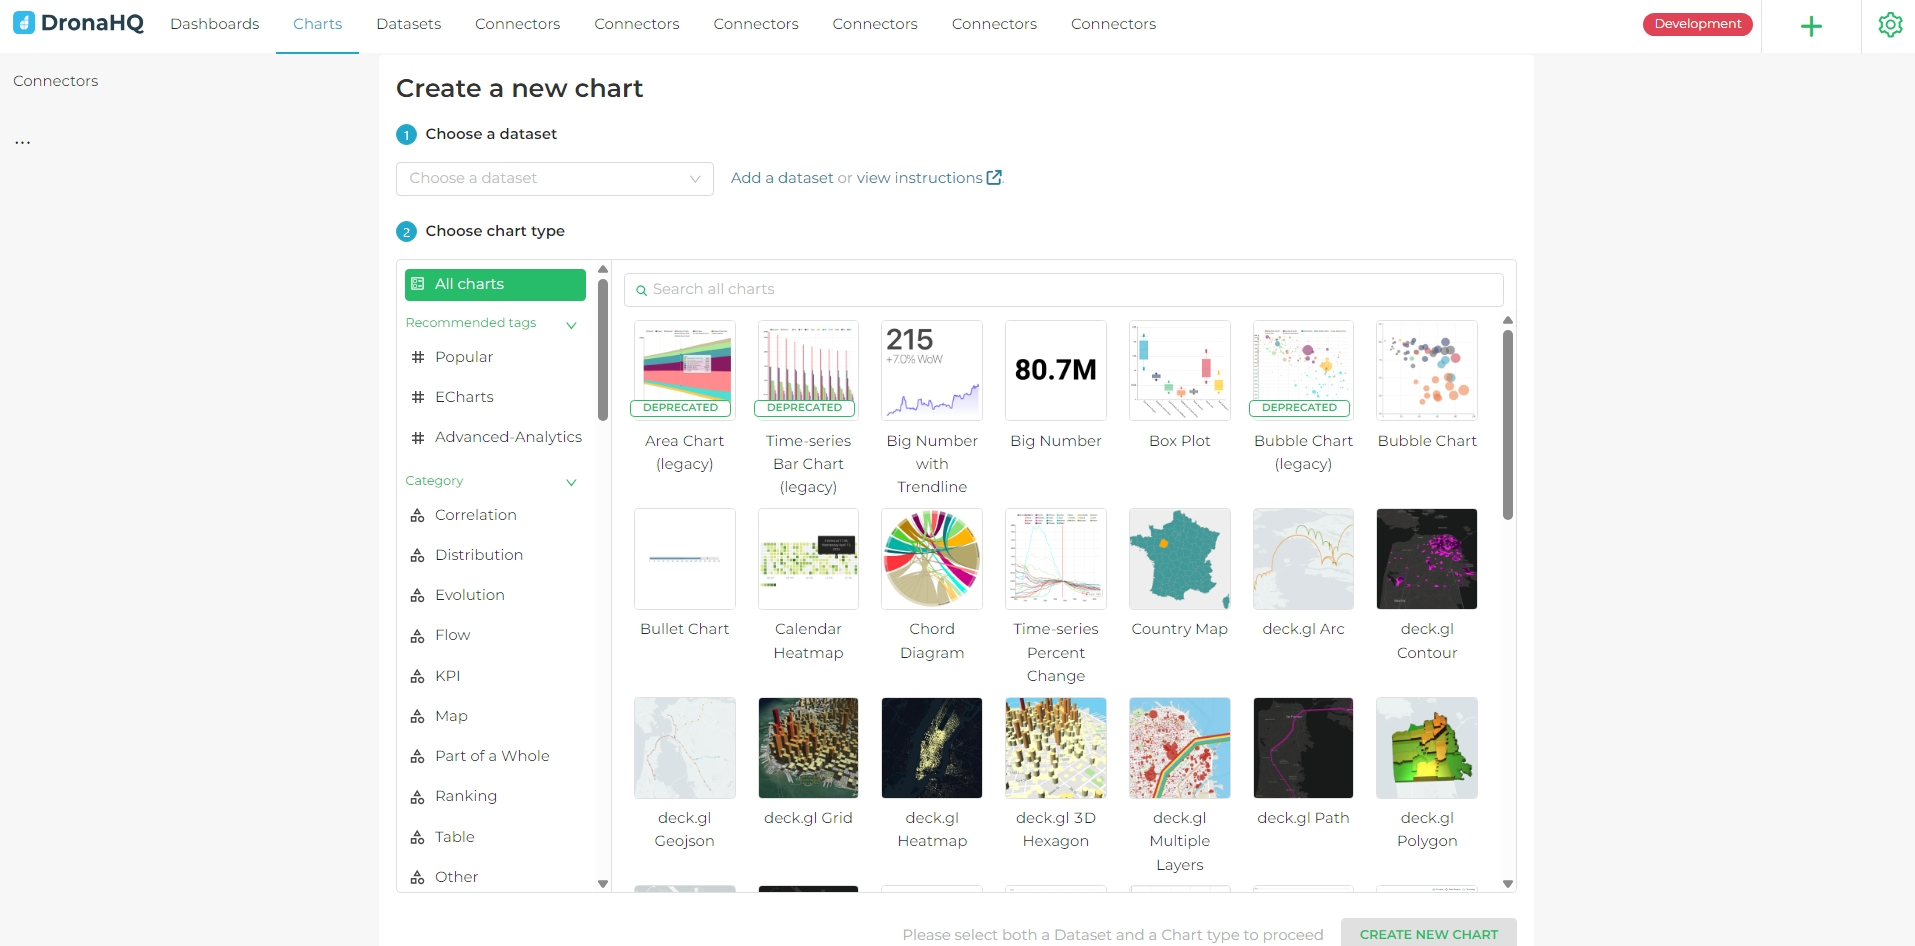
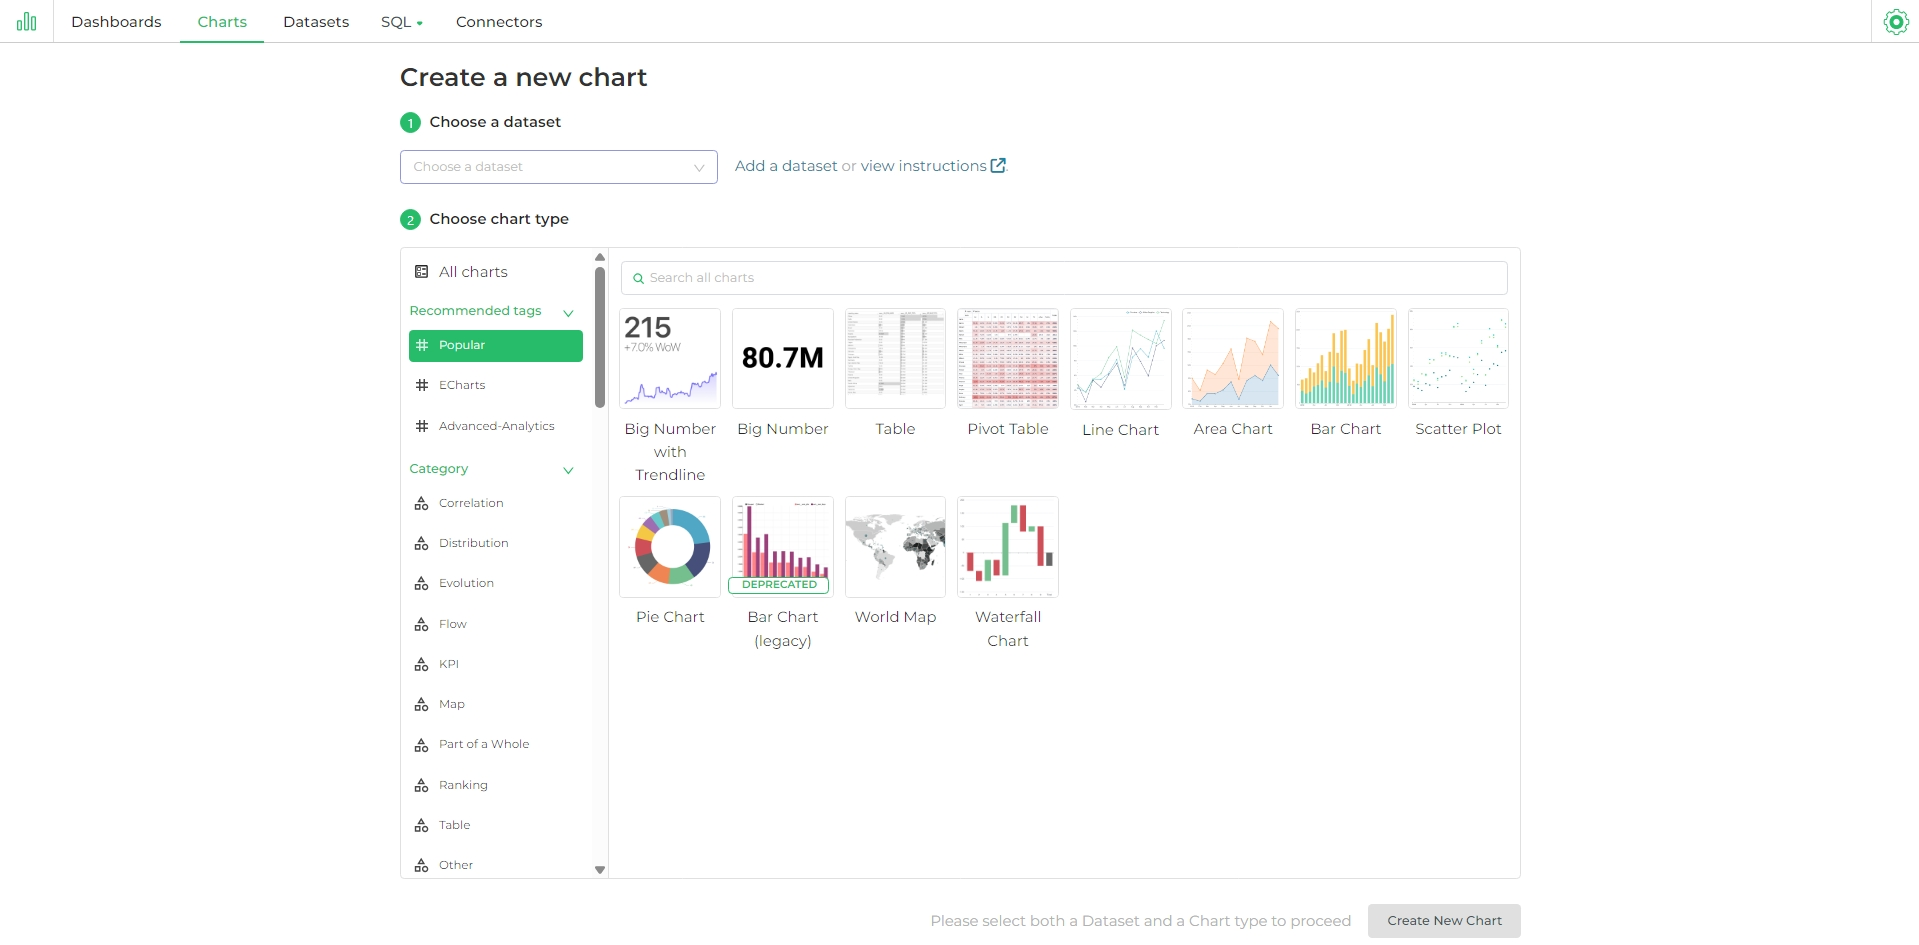
dataset and chart
addition updates too included

diff --git a/docs/dashboard-dronahq/using-dashboard/building-dashboard.md b/docs/dashboard-dronahq/using-dashboard/building-dashboard.md
@@ -15,23 +15,48 @@ Creating dashboards in DronaHQ allows you to visualize and manage data effective
 
 This tutorial is intended for users who want to create charts and dashboards in DronaHQ. We’ll cover how to create a new dataset, configure a table for analysis, explore the data, and add visualizations to a dashboard. Start by navigating to DronaHQ Dashboards from your DronaHQ account.
 
-### Connecting to Datasets
+### Connecting to Database
 
-On the Dashboard Home screen, click the `+` button at the top, then select `Data > Create Dataset`. This will allow you to connect to databases and create datasets. Choose your database from the dropdown menu.
+First, we need to add a connector. It has a + Database button, which allows you to add a connector for your database where the data is stored and will be further used to create datasets and charts, eventually leading to the creation of a dashboard. This includes minimal steps: select the database, provide configuration details, and connect it. You can configure a number of advanced options in this window. There are other options to try, such as CSV upload, columnar file upload, and Excel file upload.
 
-Datasets can be created from database tables or SQL queries. To proceed, select a database table or create a dataset from an SQL query by opening SQL Lab. From there, you can save the query as a dataset. Once the schema is loaded, select the appropriate table. After the table columns are fetched, the `Create Dataset and Create Chart` button will be enabled. Click this button to create your dataset, and a new screen with chart creation options will appear.
+<figure>
+  <Thumbnail src="/img/dhq-dashboard/using-dashboard/creating-dashboard/database.jpeg" alt="Dashboard Connector Configuration " />
+  <figcaption align="center"><i>Dashboard Connector Configuration </i></figcaption>
+</figure>
+
+### Registering Dataset
+
+Now that you’ve configured a data source, you can select specific tables that you want to expose in DronaHQ Dashboard for querying. Navigate to Datasets and select the `+ Dataset` button in the top right corner. 
+
+Datasets can be created from database tables or SQL queries. Once the schema is loaded, select the appropriate table. After the table columns are fetched, the Create Dataset and Create Chart button will be enabled. Click this button to create your dataset, and a new screen with chart creation options will appear.
+
+<figure>
+  <Thumbnail src="/img/dhq-dashboard/using-dashboard/creating-dashboard/dataset.jpeg" alt="Creating Dataset " />
+  <figcaption align="center"><i>Creating Dataset </i></figcaption>
+</figure>
 
 ### Creating a New Chart
 
-After creating the dataset, you will be redirected to the Chart Creation section, where your newly created dataset will already be selected. Alternatively, you can manually click `+` and select Chart, then choose the dataset you created.
+After creating the dataset, you will be redirected to the Chart Creation section, where your newly created dataset will already be selected. Alternatively, you can manually click `+ Chart`, then choose the dataset you created.
 
 DronaHQ Dashboard offers a wide variety of charts and tags for users to choose from. Select the chart type you want to use for your dataset, then click `Create New Chart`.
 
-### Data Visualization Configuration
+
+#### Data Visualization Configuration
 
 In the next step, you will configure the data available to you. Select different columns from the metrics, apply filters, and set the order. Customize the result data format, color, attribute names, and more. Once you have configured the settings, click `Create Chart`.
 
 A preview of the chart with the provided data configuration will be generated. You can make further customizations; after each edit, click `Update Chart`. 
+
+You now have a robust workflow for exploring data and refining charts. The Dataset view on the left displays a list of columns and metrics specific to the selected dataset. The Data preview below the chart area provides useful data context. Using the Data and Customize tabs, you can change the visualization type, select the time column, choose the metric to group by, and adjust the chart's aesthetics. Make sure to click the Run button to see visual feedback as you customize your chart.
+
+In the screenshot below, we create a country Map Chart to visualize birth in France by region, simply by selecting options from the drop-down menus.
+
+<figure>
+  <Thumbnail src="/img/dhq-dashboard/using-dashboard/creating-dashboard/chart.jpeg" alt="Chart Building" />
+  <figcaption align="center"><i>Chart Building</i></figcaption>
+</figure>
+
 
 When you are satisfied with the chart, click `Save`. Provide a name for the chart and click save again.
 
@@ -40,5 +65,10 @@ When you are satisfied with the chart, click `Save`. Provide a name for the char
 While saving the chart, you will find an option to save and continue to the dashboard. Alternatively, click the `+` icon at the top and select `Dashboard`. This will open a blank dashboard builder, which is straightforward to use.
 
 The builder allows you to create a new chart or select from the list of available charts. Drag and drop the chart you created into the builder. There are layout elements such as tabs, rows, columns, headers, text, and dividers to enhance your dashboard.
+
+<figure>
+  <Thumbnail src="/img/dhq-dashboard/using-dashboard/creating-dashboard/dashboard.jpeg" alt="Dashboard Creation" />
+  <figcaption align="center"><i>Dashboard Creation</i></figcaption>
+</figure>
 
 Once you are done, click `Save`, and your dashboard in DronaHQ will be ready.

diff --git a/docs/dashboard-dronahq/working-with-data/datasets.md b/docs/dashboard-dronahq/working-with-data/datasets.md
@@ -1,0 +1,105 @@
+---
+sidebar_position: 1
+title: Creating Datasets
+---
+
+Datasets in DronaHQ Dashboard are curated representations of data from your database. They enable the creation of charts with unified metric definitions, ensuring consistency and accuracy. Datasets are crucial as every chart in DronaHQ Dashboard is created from a dataset. They offer flexibility in modeling data, allowing you to present information tailored to specific audiences in charts or dashboards.
+
+In this article, we will explore how DronaHQ Dashboard works with your data to create and manage datasets effectively.
+
+A dataset in DronaHQ Dashboard is an abstraction that points to data in your database. This data is then used to create charts.
+
+## How to Use a Dataset
+
+The primary purpose of a dataset is to enable chart creation. You can create a chart in two ways:
+
+1. Using the Chart Gallery:
+   - Select a dataset and a chart type from the Chart Gallery screen.
+   - Configure the chart accordingly.
+
+2. Using the Explore Interface:
+   - Select a dataset from the Datasets screen.
+   - Use the Explore interface to configure your chart.
+
+
+## Physical Datasets
+
+Physical datasets are tables in your connected database. Adding a physical dataset is a quick way to get started with chart creation in DronaHQ Dashboard.
+
+### Adding a Physical Dataset
+
+1. Navigate to the Datasets screen.
+2. Select + Dataset.
+3. In the drop-down lists, select a database, schema, and a table.
+4. Click Add.
+
+Your dataset is now ready for chart creation.
+
+### Accessing Physical Datasets
+
+Physical datasets are indicated by black grid icons on the Datasets screen and are designated as "Physical" under the Type column. You can manage, explore, delete, and view these datasets just like virtual datasets.
+
+## Virtual Datasets
+
+Virtual datasets are views of data created within DronaHQ Dashboard using SQL Lab. This allows you to use SQL operations like JOIN to build your dataset.
+
+### Creating a Virtual Dataset
+
+1. Hover over SQL Lab in the Toolbar and select SQL Editor.
+2. Compose your SQL query and run it.
+3. In the Results tab, select Explore to view your query in the Chart Builder.
+4. Save your data view as a virtual dataset.
+
+### Accessing Virtual Datasets
+
+Virtual datasets are indicated by blue grid icons on the Datasets screen and are designated as "Virtual" under the Type column. They can be managed, explored, deleted, and viewed just like physical datasets.
+
+## Editing Datasets
+
+### Customizing Your Dataset
+
+Datasets added to DronaHQ Dashboard can be customized to align with your specific audience needs. You can define data availability, specify date formats, and change labels. 
+
+#### Editing a Dataset
+
+1. Hover over a dataset row and select the pencil Edit icon under the Actions column.
+2. The Edit Dataset panel will appear.
+
+#### Source Tab
+
+- Manage the source powering your dataset.
+- Specify the type (Physical or Virtual).
+- Map it to a database and schema.
+- For Physical Datasets, specify the table.
+- For Virtual Datasets, set a title and SQL query.
+
+### Metrics
+
+Metrics perform operations on a set of data and are used for calculations based on aggregation or pivoting rows to columns.
+
+#### Adding a Metric
+
+1. Select the Metrics tab in the Edit Dataset panel.
+2. Click + Add Item.
+3. Define the metric details in the new row that appears.
+4. Click Save.
+
+### Columns
+
+The Columns tab displays all column data within the dataset.
+
+#### Editing Columns
+
+1. Select the Columns tab in the Edit Dataset panel.
+2. Edit fields like Column name, Data type, and more.
+
+
+####  Sync Columns from Source
+
+The Sync Columns from Source button fetches updated metadata from the dataset source, reflecting changes to the columns.
+
+### Calculated Columns
+
+Calculated columns refine raw data into a more meaningful format for end-users. They are created using SQL expressions and are not available in SQL Lab.
+
+

diff --git a/docs/dashboard-dronahq/working-with-data/table-visualization-dataset.md b/docs/dashboard-dronahq/working-with-data/table-visualization-dataset.md
@@ -1,0 +1,76 @@
+---
+sidebar_position: 1
+title: Table Visualization for Dataset
+---
+
+
+
+This document provides a detailed guide on creating a Table Visualization on a dataset using DronaHQ Dashboard. Let's see a dashboard setup for visualizing the highest degree held by respondents from the FCC 2018 survey dataset. This guide will walk you through setting up a similar table visualization.
+
+
+
+Ensure you have access to uploaded dataset. Navigate to the DronaHQ dashboard, select your dataset, and click `+ Add Chart` and select `Table1` to create a new table visualization.
+
+
+
+### Data
+
+3. Setting Up the Query:
+    - Query Mode: Set the query mode to `AGGREGATE`.
+    - Dimensions: Drag and drop the column `School_degree` to the Dimensions section. This column contains the different degrees held by respondents.
+    - Metrics: Drag and drop `COUNT(*)` to the Metrics section. This will count the number of records for each degree.
+    - Percentage Metrics: Add a percentage metric to show the proportion of each degree. Use the formula `COUNT(School_degree) / TOTAL COUNT(School_degree)` to calculate the percentage.
+
+4. Applying Filters:
+    - Filter by Software Developers: To filter out records where the respondent is not a software developer, set the filter `is_software_dev = 0`.
+    - Time Filter: You can apply a time filter if needed. In this example, there is no specific time filter applied (`time_start (No Filter)`).
+
+5. Sorting the Data:
+    - Sort the data by the count of degrees in descending order to display the degrees with the highest counts at the top.
+
+6. Server Pagination:
+    - Enable server pagination if your dataset is large to enhance performance.
+
+
+
+### Customize
+
+To customize the appearance and behavior of your table, follow these steps:
+
+1. Timestamp Format:
+    - Choose the desired timestamp format. In this example we will select, `Adaptive Formatting`.
+
+2. Page Length:
+    - Define the number of rows to display per page. If left empty, it will display all rows.
+
+3. Options:
+    - Search Box: Enable the search box to allow users to search within the table.
+    - Cell Bars: Enable cell bars to visually represent the magnitude of the values.
+    - Align +/-: Enable to align positive and negative values appropriately.
+    - Color +/-: Enable to color positive and negative values differently.
+    - Allow Columns To Be Rearranged: Enable if you want users to rearrange columns.
+
+4. Customize Columns:
+    - Modify the columns to be displayed and their order.
+    - For this example:
+        - `School_degree`
+        - `Count`
+        - `COUNT(School_degree)`
+        - `%COUNT(School_degree)`
+
+5. Conditional Formatting:
+    - Add new color formatter rules if you need to apply conditional formatting to the cells.
+
+
+
+### Chart Preview
+
+The chart preview section allows you to see a visual representation of your data. In this example, we can see represention of the number of respondents holding each degree type. Each bar's length corresponds to the count of respondents for each degree.
+
+
+
+### Results/Samples
+
+The results/samples section displays the actual data in a tabular format. It shows the degree types in one column and the count of respondents for each degree in another column. The table also includes a percentage column to represent the proportion of each degree type.
+
+

diff --git a/docs/dashboard-dronahq/working-with-data/creating-charts.md b/docs/dashboard-dronahq/working-with-data/creating-charts.md
@@ -1,0 +1,53 @@
+---
+sidebar_position: 1
+title: Adding Chart to Dataset
+---
+
+
+Begin your chart creation with a physical or virtual dataset to scale chart building and reuse predefined metrics. Let's see how to start with creating your chart on any dataset avaiable.
+
+First of. navigate to the `Charts` section on dashboard and click the `+ Chart` icon. On the "Create a new chart" screen, click the drop-down arrow in the "Choose a Dataset" field and select a dataset.
+
+now simply choose a chart type and click `Create new chart`. It is recommended to use charts with the `Recommended` tag in the chart gallery. You can select the desired chart from the "Create a new chart" dialogue and change the chart type in the Data tab of the Chart Builder.
+
+
+
+
+## Using Chart Builder
+
+Familiarize yourself with the Chart Builder page to configure a chart and run a query. Verify your chart source before creating any chart. Editing a pre-saved dataset directly from the Chart Builder will affect all charts using the same dataset.
+
+1. Metrics & Columns Panel:
+   - Below the Chart Source panel, use the Metrics and Columns panel to quickly find the necessary data.
+   - Icons indicate data types:
+     - ƒ: Function used for metrics
+     - Clock: Time column
+     - abc: Text data
+     - #: Numeric value data
+   - Drag and drop Metrics and Columns into the Query panel to configure your visualization.
+
+2. Chart Type Panel:
+   - Use the Chart Type panel to change your visualization type.
+   - DronaHQ recommends using charts with the `Recommended` tag.
+   - Switch between common chart types without losing already configured fields.
+
+3. Configuring Fields:
+   - Viewing Data Samples: Click `Samples` above the "Run a query to display results" section to pull raw data in table form.
+   - Choosing the Dimension for the X-axis: Specify the x-axis dimension in the "Query" panel. Support for temporal (time series) and non-temporal x-axis dimensions is available. For temporal datasets, define the granularity of displayed x-axis values.
+   - Add a Metric or Column: Drag a metric or column to the applicable destination fields. A pop-out window will appear for details. 
+
+4. Creat Chart:
+   once everything is set, click on `Create Chart` it, will run the query and will provide a chart with required details. Most DronaHQ charts are interactive; hover over parts of the chart to see additional details.
+
+6. Further Customizations:
+   - To customize, select the `Customize` tab to see available options for the selected chart type.
+   - Experiment with different chart types and configuration settings to express your data in various ways. Update time ranges or add filters to access more or less data.
+
+## Saving and Sharing the Chart
+
+At the top right of Chart Builder, select `Save`. In the Save chart dialogue, you can create a new dashboard and add the chart to it. 
+
+For sharing and other options, next to Save, click the meatballs icon for chart tools. you will find that to share a chart there are options like, share the chart by 
+     - Copy the chart permalink.
+     - Share chart by email.
+     - Share by embed.

diff --git a/docs/dashboard-dronahq/readme.md b/docs/dashboard-dronahq/readme.md
@@ -50,8 +50,13 @@ DronaHQ Dashboard is a powerful and easy-to-use solution for data visualization 
 </figure>
 
 <figure>
-  <Thumbnail src="/img/dhq-dashboard/dhq-dashboard-nocodeeditor.jpeg" alt="Low-Code Query Building " />
-  <figcaption align="center"><i>Low-Code Query Building </i></figcaption>
+  <Thumbnail src="/img/dhq-dashboard/dhq-dashboard-datasetbuilding.jpeg" alt="No-Code Chart Designing" />
+  <figcaption align="center"><i>Drag and Drop / Low-Code dataset Building</i></figcaption>
+</figure>
+
+<figure>
+  <Thumbnail src="/img/dhq-dashboard/dhq-dashboard-nocodeeditor.jpeg" alt="Low-Code SQL Query building " />
+  <figcaption align="center"><i>Low-Code SQL Query building </i></figcaption>
 </figure>
 
 
@@ -95,6 +100,11 @@ In the Charts section, you can create new charts to visualize your data effectiv
 
 In the Datasets section, you can manage all your data sources efficiently. Each dataset in your list is provided with detailed information including name, type, database, schema, owners, last modified date, and available actions. You can create new datasets, view and navigate through existing ones, and perform various actions such as exporting, importing, and deleting datasets, ensuring that your data repository is always organized and current.
 
+### SQL Labs and Query Management
+
+
+The SQL Labs section allows you to create, test, and manage your SQL queries in a dedicated environment. You can write new SQL queries, run them to retrieve results, and save queries for future use. This section provides a list of all your saved queries along with details such as query name, associated database, last modified date, and available actions. Additionally, you can export your queries for external use, import queries created by others, and delete queries that are no longer needed, making it easy to keep your query library organized and up-to-date.
+
 
 ---
 
@@ -102,20 +112,17 @@ In the Datasets section, you can manage all your data sources efficiently. Each 
 
 DronaHQ Dashboard supports a wide range of databases, making it easy to connect to your existing data infrastructure. Some of the supported databases include:
 
-1. MySQL
-2. PostgreSQL
-3. Microsoft SQL Server
-4. SQLite
-5. Oracle Database
-6. IBM Db2
-7. MariaDB
-8. Amazon Aurora
-9. Google Cloud SQL
-10. Microsoft Azure SQL Database
-11. Apache Hive
-12. Apache HBase
-13. SAP HANA
-14. Teradata
-15. IBM Informix
+1. Apache druid
+2. Apache Hive
+3. Apache Sparl SQL
+4. Aurora MySQL (Data API)
+6. Aurora PostgreSQL (Data API)
+7. Google Sheet
+8. MySQL
+9. PostgreSQL
+10. Presto
+11. Shillelagh
+12. SQLite
+13. Trino
 
 *For a complete list of supported databases, refer to the DronaHQ documentation.*
